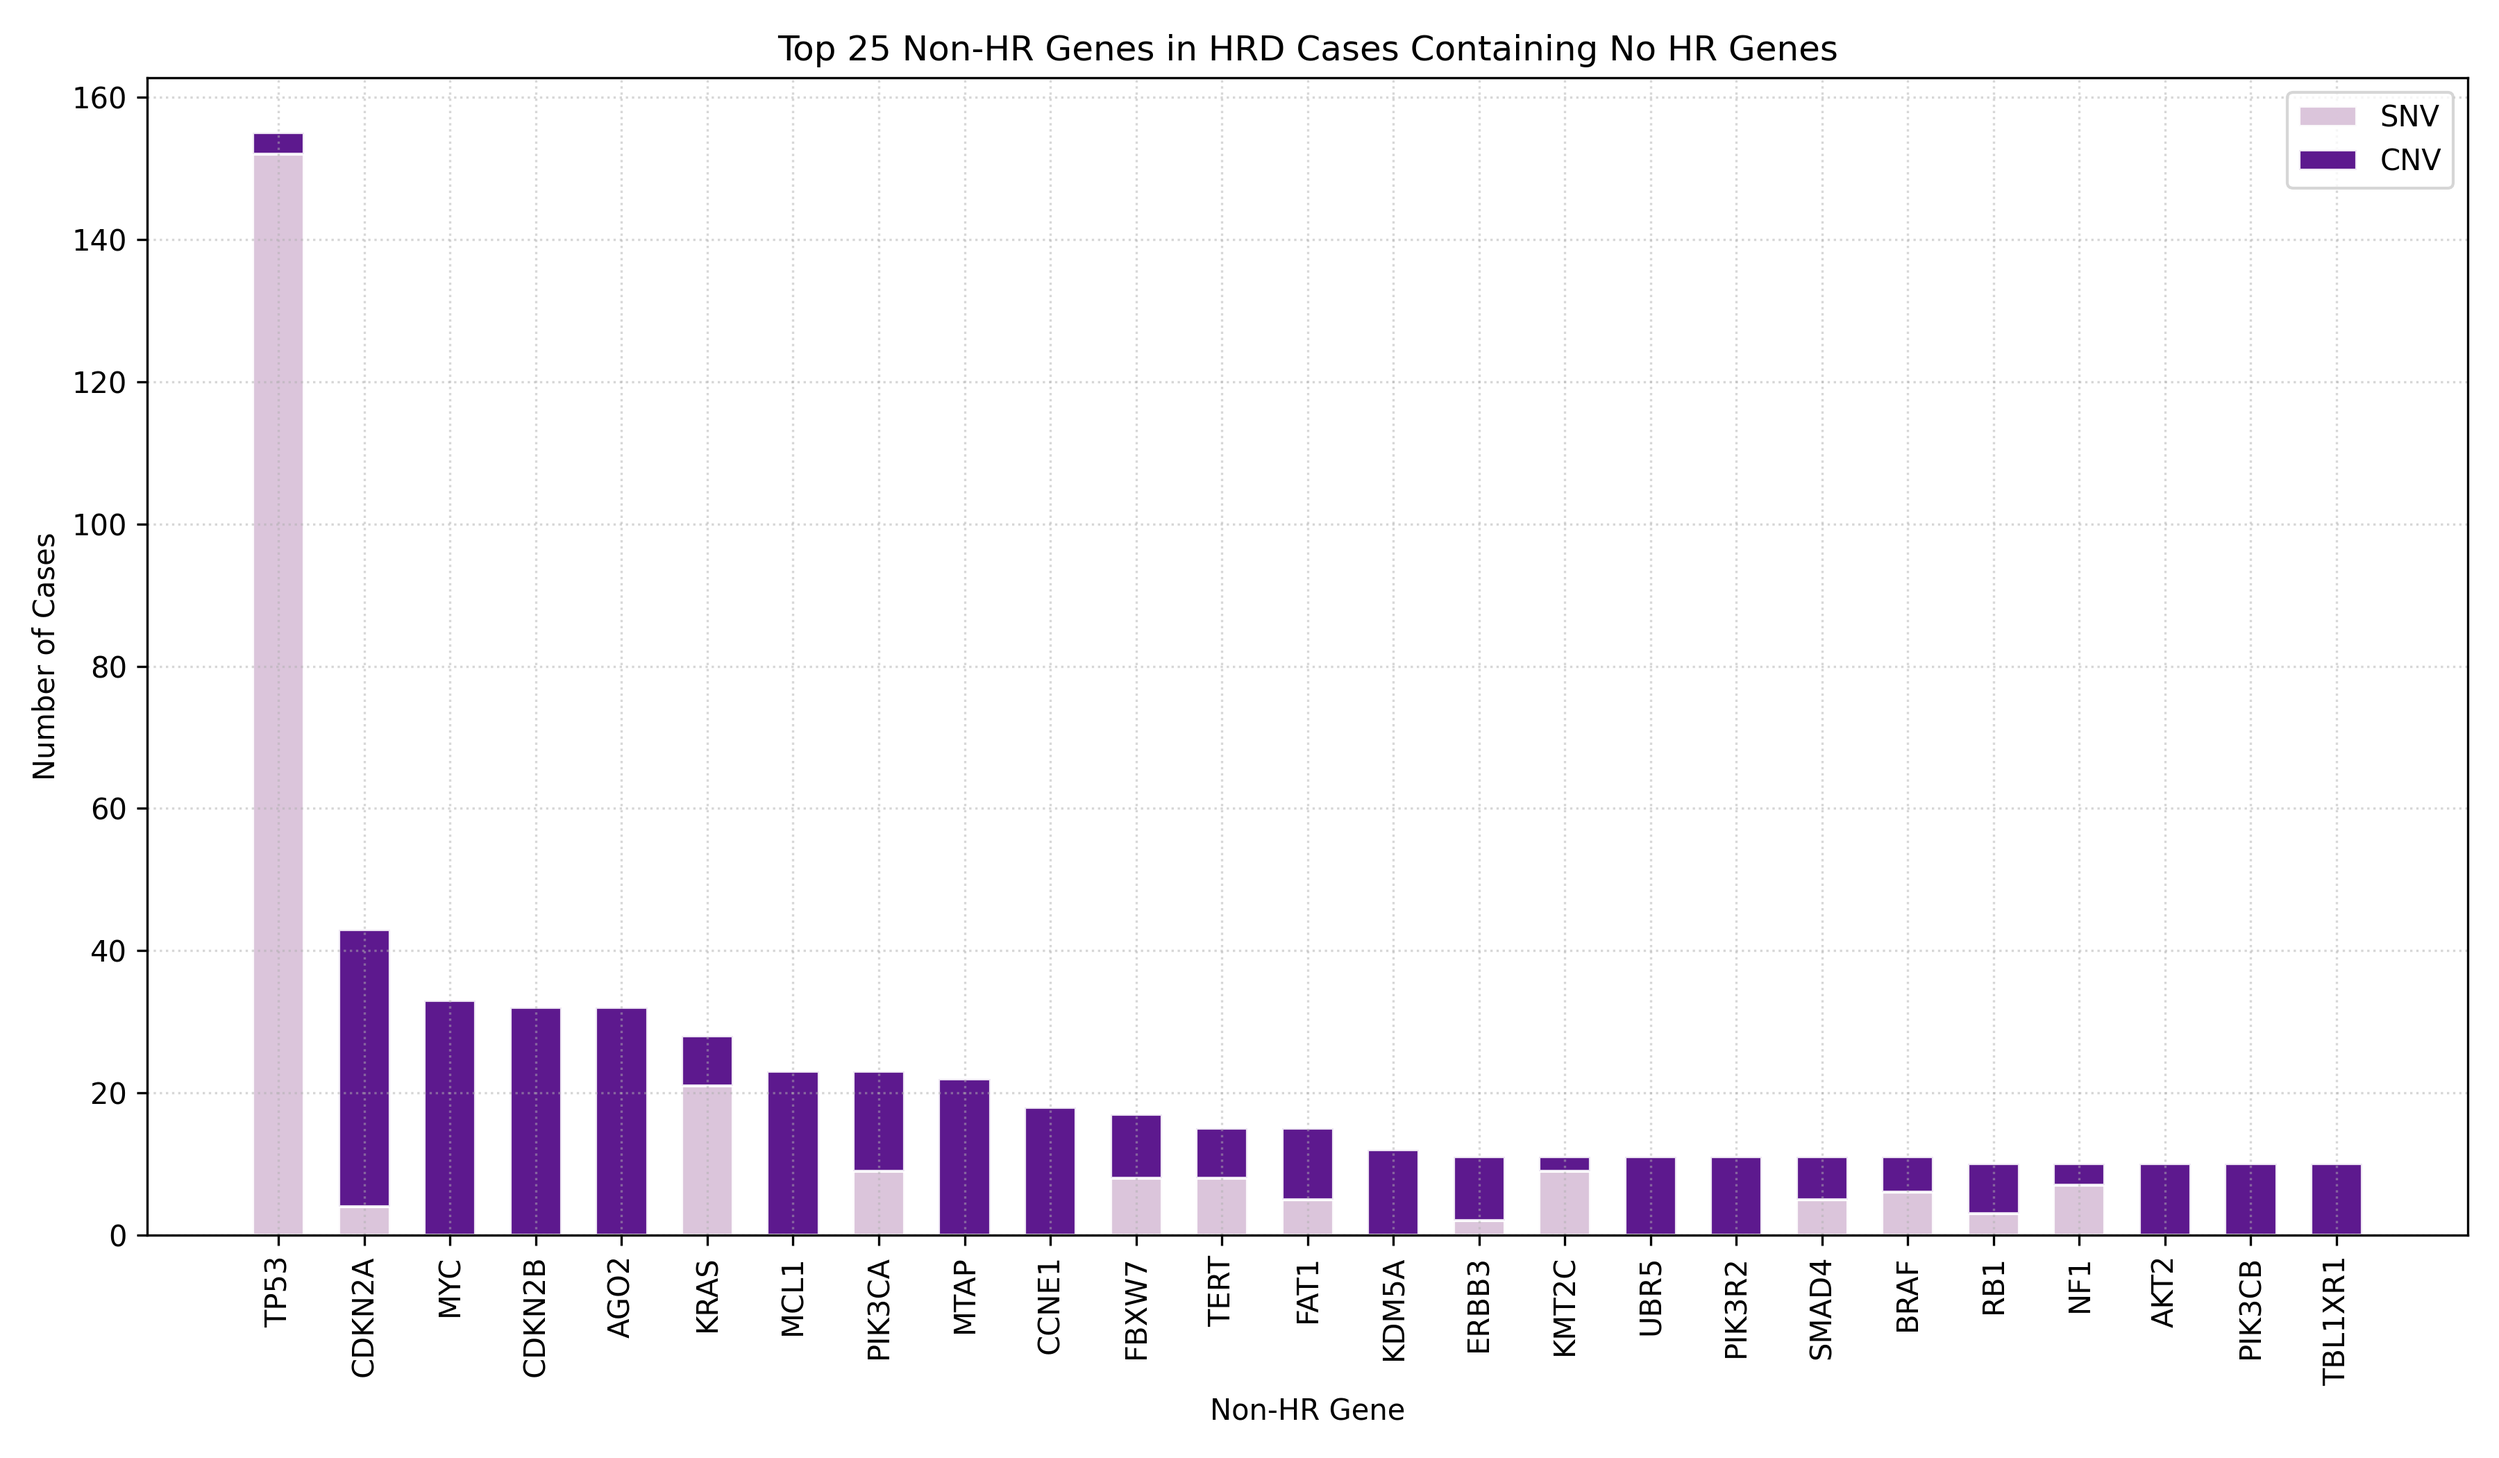
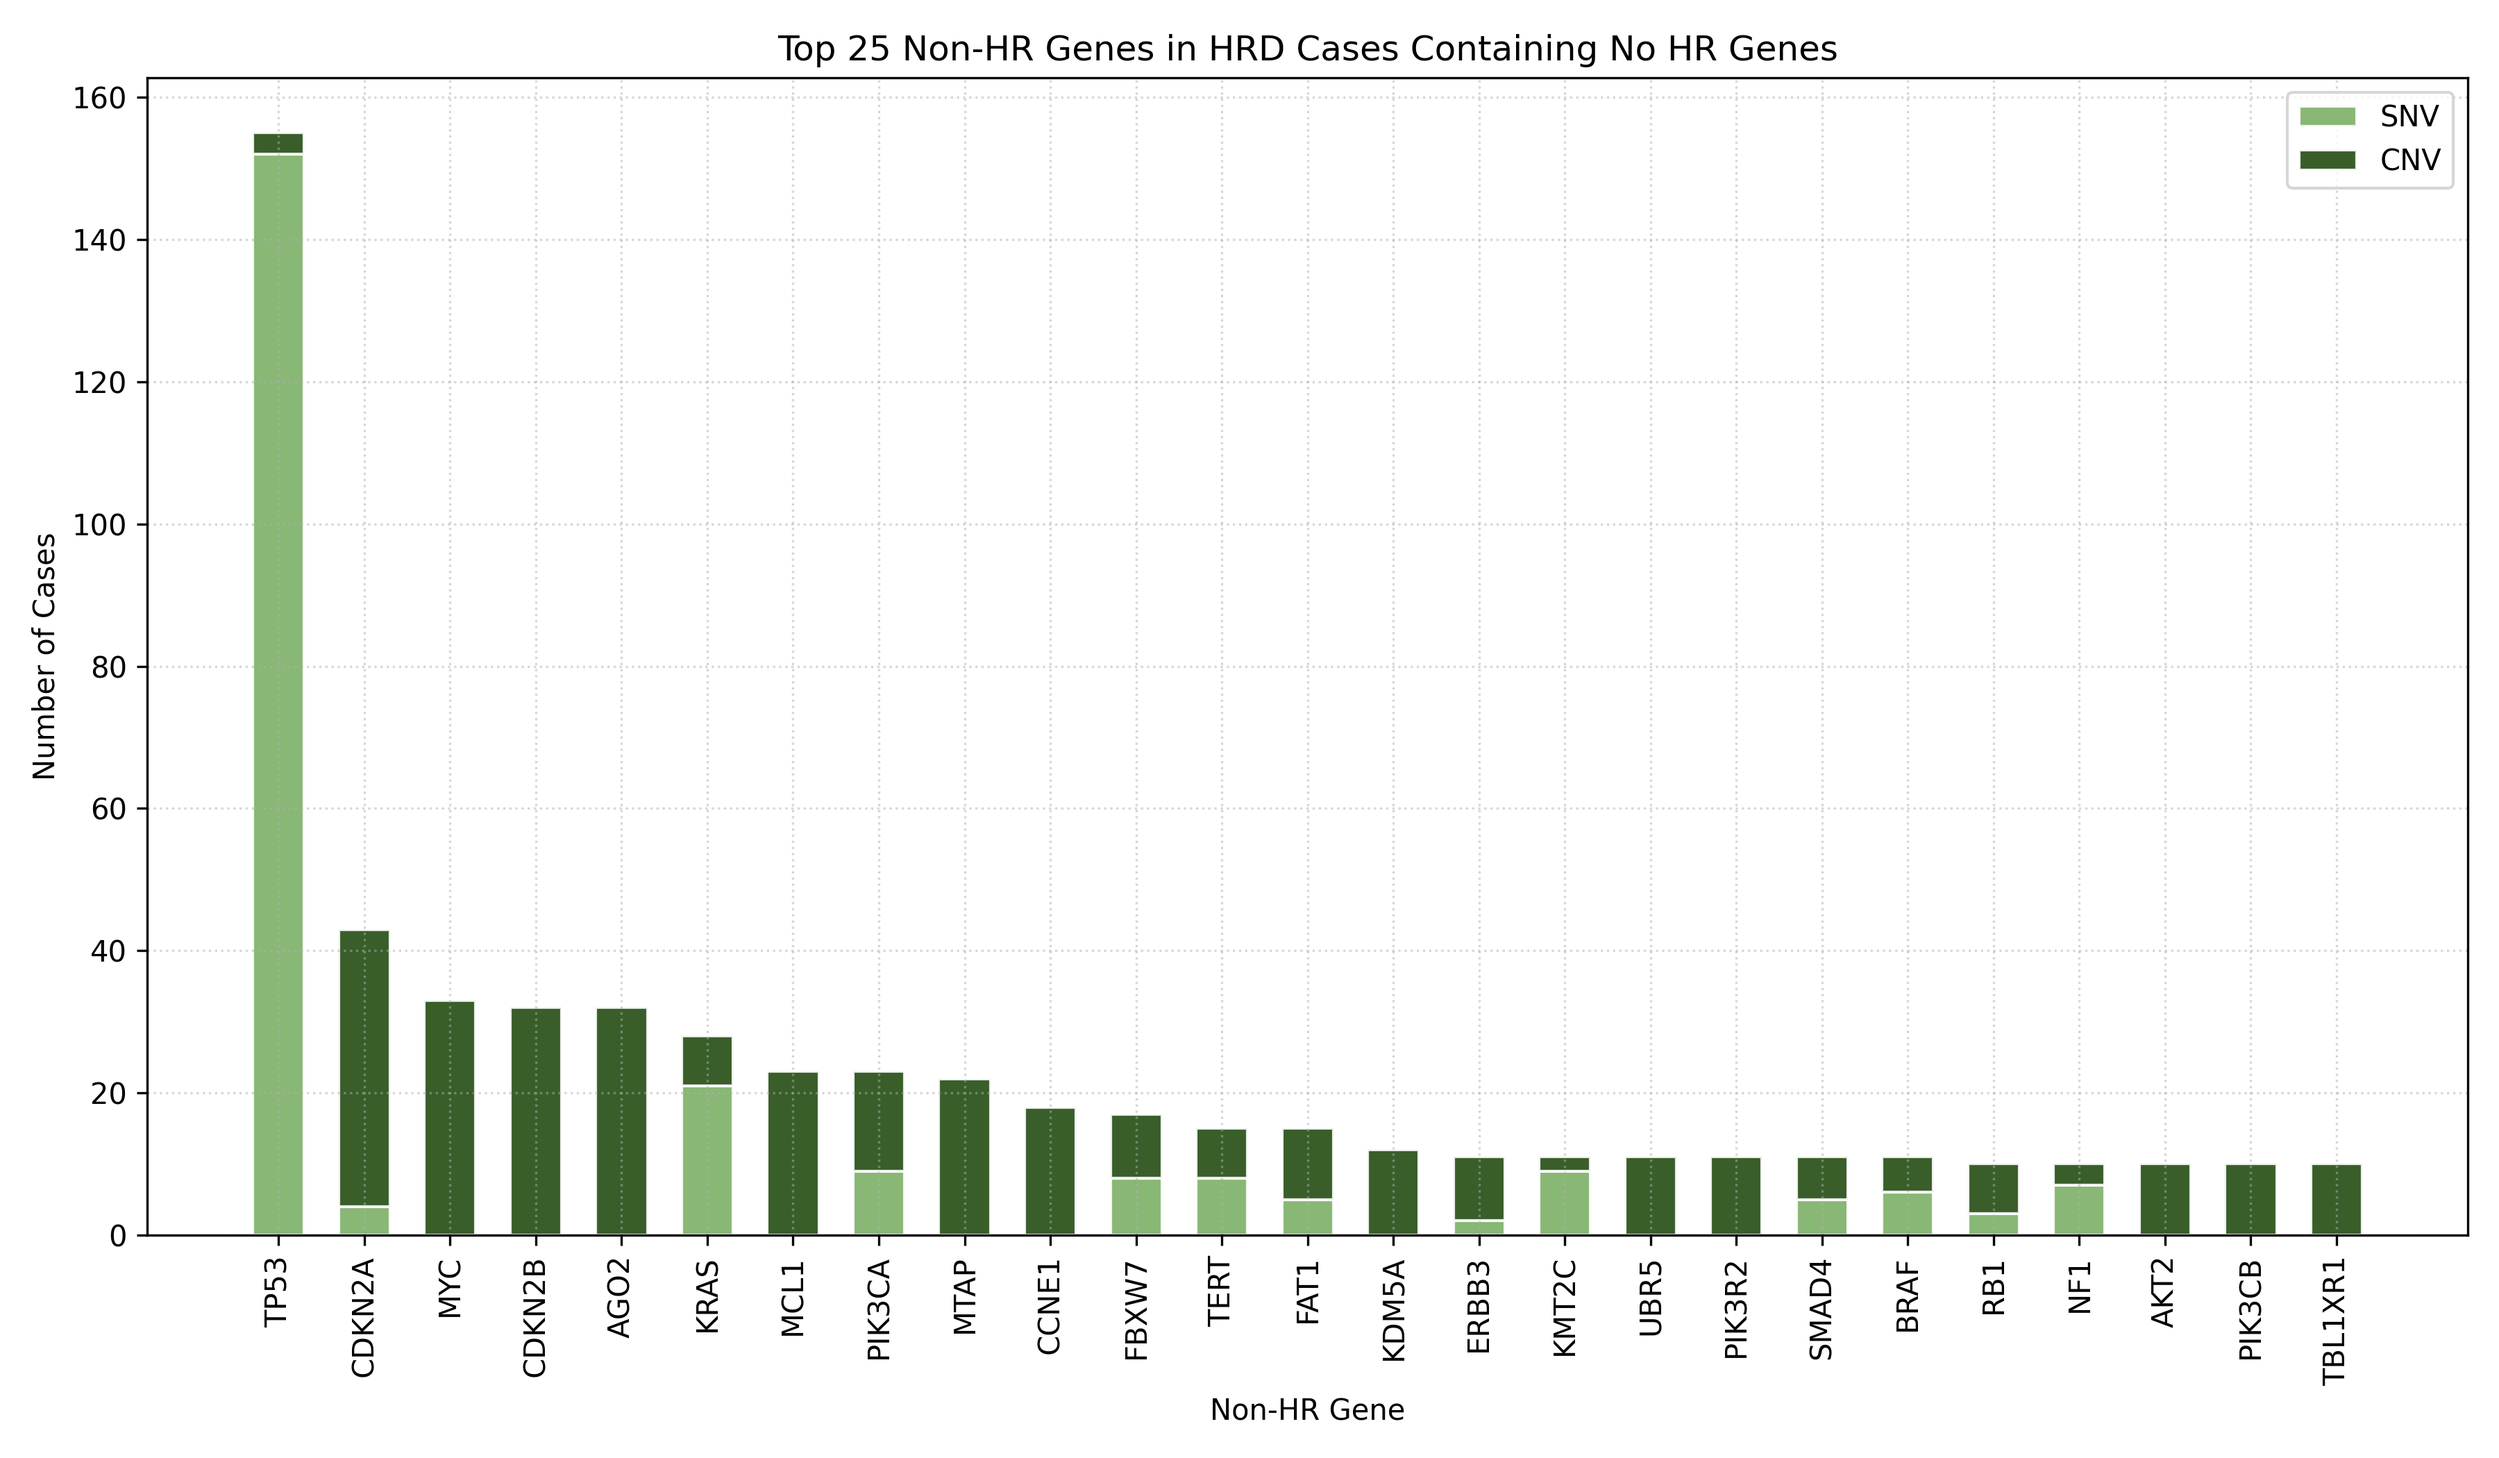
Changes to plot format

Changed region(s): [[0.0933, 0.0929, 0.9644, 0.8667], [0.9022, 0.0619, 0.9644, 0.1238]]

diff --git a/4_caseStudies/hr_genes/combine_gene_by_status.py b/4_caseStudies/hr_genes/combine_gene_by_status.py
@@ -33,14 +33,15 @@ def plot_combine(csv1, csv2, genes):
     x = np.arange(len(genes)) * 1.5
     plt.figure(figsize=(12,7))
 
-    plt.bar(x - 0.3, plot_df["SNV_HRD"], 0.6, color="thistle", edgecolor="white", alpha=0.9, label="HRD SNV")
-    plt.bar(x - 0.3, plot_df["CNV_HRD"], 0.6, bottom=plot_df["SNV_HRD"], color="thistle", edgecolor="white", alpha=0.9, hatch="////", label="HRD CNV")
+    plt.bar(x - 0.3, plot_df["SNV_HRD"], 0.6, color="#7cb066ff", edgecolor="white", alpha=0.9, label="HRD SNV")
+    plt.bar(x - 0.3, plot_df["CNV_HRD"], 0.6, bottom=plot_df["SNV_HRD"], color="#7cb066ff", edgecolor="white", alpha=0.9, hatch="////", label="HRD CNV")
 
-    plt.bar(x + 0.3, plot_df["SNV_HRP"], 0.6, color="indigo", edgecolor="white", alpha=0.9, label="HRP SNV")
-    plt.bar(x + 0.3, plot_df["CNV_HRP"], 0.6, bottom=plot_df["SNV_HRP"], color="indigo", edgecolor="white", alpha=0.9, hatch="////", label="HRP CNV")
+    plt.bar(x + 0.3, plot_df["SNV_HRP"], 0.6, color="#234c13ff", edgecolor="white", alpha=0.9, label="HRP SNV")
+    plt.bar(x + 0.3, plot_df["CNV_HRP"], 0.6, bottom=plot_df["SNV_HRP"], color="#234c13ff", edgecolor="white", alpha=0.9, hatch="////", label="HRP CNV")
 
     plt.xticks(x, genes, rotation=90)
     plt.ylabel("Number of Cases")
+    plt.gca().yaxis.set_major_locator(plt.MaxNLocator(integer=True))
     plt.title("Variant Occurrence per HR Gene: HRD vs HRP")
     plt.grid(True, linestyle=":", alpha=0.6)
     plt.legend(ncol=2)

diff --git a/4_caseStudies/hr_genes/nonHR_genes.py b/4_caseStudies/hr_genes/nonHR_genes.py
@@ -47,14 +47,14 @@ def plot_nonhr(csv_hrd, hr_genes, top_n=25):
    x = np.arange(len(table))
    plt.figure(figsize=(12, 7))
 
-   plt.bar(x, table["SNV"], 0.6, color="thistle", edgecolor="white", alpha=0.9, label="SNV")
-   plt.bar(x, table["CNV"], 0.6, bottom=table["SNV"], color="indigo", edgecolor="white", alpha=0.9,label="CNV")
+   plt.bar(x, table["SNV"], 0.6, color="#7cb066ff", edgecolor="white", alpha=0.9, label="SNV")
+   plt.bar(x, table["CNV"], 0.6, bottom=table["SNV"], color="#234c13ff", edgecolor="white", alpha=0.9,label="CNV")
    
    plt.xticks(x, table["Gene"], rotation=90)
    plt.xlabel("Non-HR Gene")
    plt.ylabel("Number of Cases")
    plt.title(f"Top 25 Non‑HR Genes in HRD Cases Containing No HR Genes")
-   plt.grid(True, linestyle=":", alpha=0.6)
+   plt.grid(True, linestyle=":", alpha=0.5)
    plt.legend()
    plt.tight_layout()
    plt.savefig("nonHR_genes_top25.png", dpi=300)
